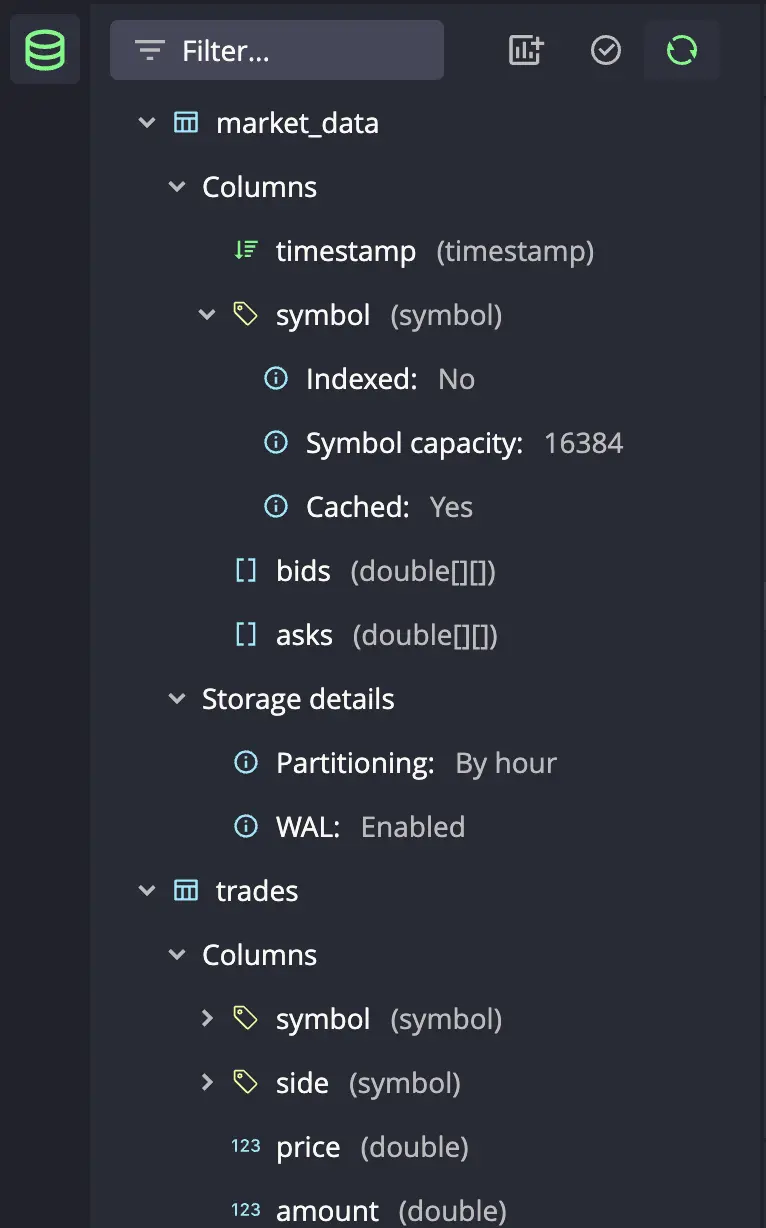
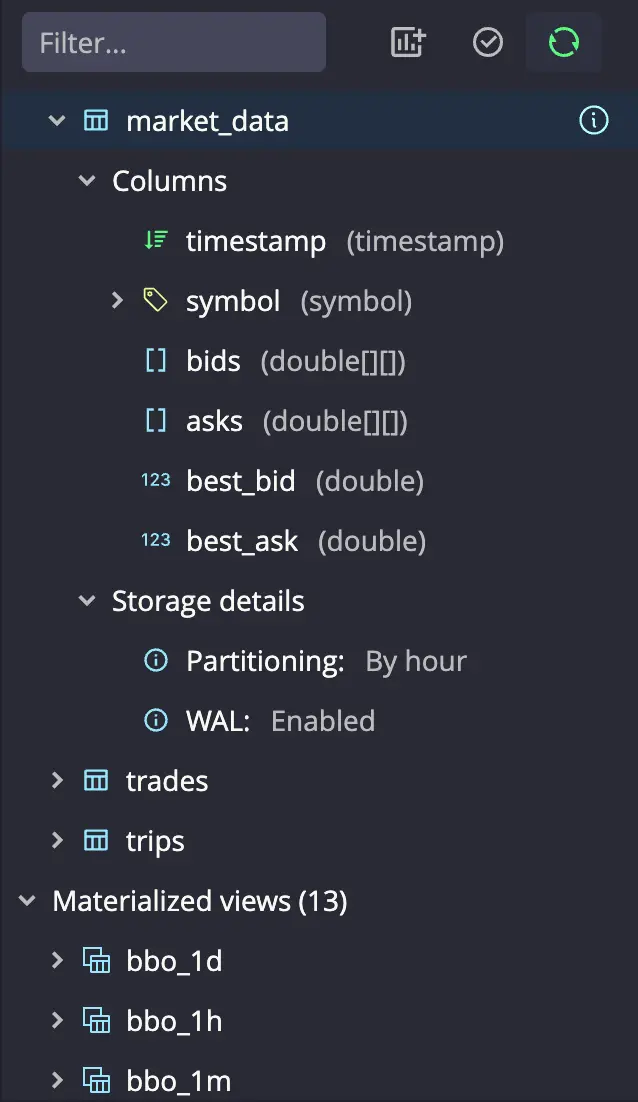
Add table details to web console docs, remove create table component, update screenshots

diff --git a/documentation/sidebars.js b/documentation/sidebars.js
@@ -35,10 +35,10 @@ module.exports = {
             "getting-started/web-console/questdb-ai",
             "getting-started/web-console/metrics-view",
             "getting-started/web-console/schema-explorer",
+            "getting-started/web-console/table-details",
             "getting-started/web-console/result-grid",
             "getting-started/web-console/query-log",
             "getting-started/web-console/import-csv",
-            "getting-started/web-console/create-table",
           ],
         },
       ],

diff --git a/documentation/getting-started/web-console/table-details.md b/documentation/getting-started/web-console/table-details.md
@@ -1,0 +1,134 @@
+---
+title: Table Details
+description: Monitor real-time ingestion metrics and health status, and view metadata for tables and materialized views in QuestDB Web Console
+---
+
+import Screenshot from "@theme/Screenshot"
+
+The **Table Details** panel provides real-time monitoring and detailed metadata for any table or materialized view. It displays health status, WAL ingestion metrics, performance alerts, and a full view of the table's DDL, columns, and storage configuration.
+
+<Screenshot
+  alt="Table Details panel in the Web Console"
+  src="images/docs/console/table-details.webp"
+  width={463}
+  height={686}
+/>
+
+## Opening Table Details
+
+You can open the Table Details panel by clicking on the information icon next to the table name, or the "View details" context menu option in the [Schema Explorer](/docs/getting-started/web-console/schema-explorer). The panel opens as a drawer on the right side of the Web Console.
+
+## Header
+
+The header displays the following information:
+
+- **Health Status Icon**: Color-coded indicator showing the overall health of the table (green for healthy, orange for warnings, red for critical issues)
+- **Table Name**: The name of the table or materialized view, with a copy button
+- **Type Badge**: Indicates whether the object is a "Table" or "Materialized View"
+
+The panel is organized into two tabs: **Monitoring** and **Details**.
+
+## Monitoring Tab
+
+The Monitoring tab provides real-time health and ingestion information. It is the default view when opening the panel.
+
+<Screenshot
+  alt="Table Details Monitoring tab"
+  src="images/docs/console/monitoring.webp"
+  width={464}
+  height={562}
+/>
+
+### Critical Error Banners
+
+When critical issues are detected, error banners appear at the top of the tab with actionable options:
+
+- **WAL Suspended**: Shown when Write-Ahead Log operations are suspended. Includes a "Resume WAL" button, an "Ask AI" button, and a link to relevant documentation.
+- **Materialized View Invalid**: Shown when a materialized view is in an invalid state. Displays the invalidation reason along with "Ask AI" and documentation links.
+
+### Row Count
+
+Displays the current row count and the last write timestamp. Hover over the timestamp to see the exact ISO timestamp with a copy option.
+
+### Materialized View Status
+
+For materialized views, an additional status section shows:
+
+- **View Status**: Valid, Refreshing, or Invalid
+- **Base Table Status**: Valid, Suspended, or Dropped, with a link to navigate to the base table's details
+
+### Ingestion
+
+For WAL-enabled tables, the Ingestion section displays real-time metrics in a two-column grid. This section is collapsible and automatically expands when warnings are detected.
+
+<Screenshot
+  alt="Table Details ingestion metrics"
+  src="images/docs/console/ingestion.webp"
+  width={461}
+  height={289}
+/>
+
+The following metrics are available:
+
+- **Pending Rows**: Rows waiting in WAL to be written to table storage, with a trend indicator (increasing, decreasing, or stable) and rate
+- **Transaction Lag**: Number of transactions committed to WAL but not yet applied to table storage, with trend indicator and rate
+- **WAL Transaction Number**: Current WAL transaction count
+- **Memory Pressure**: Current memory pressure level (None, Reduced Parallelism, or Backoff)
+- **Deduped Rows**: Total deduplicated rows since table start
+- **Transaction Size (p90)**: 90th percentile transaction size in rows
+- **Write Amplification (p50)**: Median write amplification ratio
+- **Merge Rate (p99)**: 99th percentile merge rate in rows per second
+
+A pulsing indicator appears when active ingestion is detected.
+
+:::info
+For tables without WAL enabled, the Ingestion section displays a "Write-Ahead Log is disabled" status instead of the metrics grid.
+:::
+
+### Performance Alerts
+
+When the health check system detects performance issues, alerts are displayed with:
+
+- The issue title and a warning icon
+- Current value compared to the optimal value
+- An "Ask AI" button for troubleshooting assistance
+- A link to the relevant documentation
+
+## Details Tab
+
+The Details tab provides structural information about the data source.
+
+<Screenshot
+  alt="Table Details tab"
+  src="images/docs/console/details-section.webp"
+  width={448}
+  height={816}
+/>
+
+### Base Table
+
+For materialized views, this section shows the base table name with a clickable link to navigate to its details.
+
+### DDL
+
+Displays the DDL (Data Definition Language) statement for the data source.
+
+Available actions:
+- **Explain with AI**: Opens an AI chat to explain the schema
+- **Copy**: Copies the full DDL to the clipboard
+- **Open in Editor**: Opens the DDL in a preview editor tab
+
+### Columns
+
+An expandable list showing all columns with their names and data types. Hover over a column to reveal a copy button for the column name.
+
+### Details
+
+A grid displaying key storage configuration:
+
+| Property | Description |
+| --- | --- |
+| TTL | Time-to-live value and unit, or "None" |
+| Deduplication | Whether deduplication is enabled or disabled |
+| Partitioning | Partition strategy of the data source |
+| Refresh Type | Refresh mode of a materialized view. See [materialized view refresh docs](/docs/query/sql/refresh-mat-view) for details |

diff --git a/documentation/getting-started/web-console/schema-explorer.md b/documentation/getting-started/web-console/schema-explorer.md
@@ -5,21 +5,21 @@ description: Browse and explore your database structure with the Schema Explorer
 
 import Screenshot from "@theme/Screenshot"
 
-The **Schema Explorer** is the navigation panel on the left side of the Web Console that helps you browse and understand your database structure. It provides a hierarchical view of all tables and materialized views with detailed information about their columns, data types, storage configuration, and relationships.
+The **Schema Explorer** is the navigation panel on the left side of the Web Console that helps you browse and understand your database structure. It provides a hierarchical view of all data sources with detailed information about their columns, data types, storage configuration, and relationships.
 
 You can toggle the Schema Explorer by using the database icon on the left.
 
 <Screenshot
   alt="Schema Explorer in the Web Console"
   src="images/docs/console/schema-explorer.webp"
-  height={614}
-  width={383}
+  height={551}
+  width={319}
 
 />
 
 ## Tree View
 
-The Schema Explorer displays database objects in an expandable tree structure. When you expand a table or materialized view, the following information is available:
+The Schema Explorer displays database objects in an expandable tree structure. When you expand a table, a view, or a materialized view, the following information is available:
 
 ### Folders
 
@@ -36,22 +36,24 @@ All table columns are displayed with their names and data types, each represente
 - **WAL**: Indicates whether Write-Ahead Log is enabled or disabled for the table
 
 :::tip
-Table and materialized view icons visually indicate key storage details such as partitioning and WAL status. Hover over these icons to see detailed information including partitioning strategy, ordering configuration, and WAL status, allowing you to quickly assess critical storage details without expanding the full table structure.
+Icons of the data sources visually indicate key storage details such as partitioning and WAL status. Hover over these icons to see detailed information including partitioning strategy, ordering configuration, and WAL status, allowing you to quickly assess critical storage details without expanding the full table structure.
 ::: 
 
 #### Base Tables
 For materialized views, shows the underlying source tables
 
 ### Context Menu
-Right-clicking on any table or materialized view opens a context menu with the following actions:
+Right-clicking on any data source opens a context menu with the following actions:
 <Screenshot
   alt="Table context menu for quick actions"
   src="images/docs/console/table-context-menu.webp"
-  height={614}
-  width={383}
+  height={150}
+  width={488}
 
 />
+- **View details**: Opens [Table details panel](/docs/getting-started/web-console/table-details) for viewing detailed information about the data source
 - **Copy schema**: Copies the schema of the table to the clipboard
+- **Explain schema with AI**: If [AI Assistant](/docs/getting-started/web-console/questdb-ai) is enabled, this action starts a conversation about the schema of the data source
 - **Resume WAL**: If WAL is suspended for a table, a warning icon is shown to the right of the table name. You can resume WAL from a specific transaction number by clicking on the context menu item.
   
 :::info

diff --git a/documentation/getting-started/web-console/overview.md b/documentation/getting-started/web-console/overview.md
@@ -58,6 +58,13 @@ The **Schema Explorer** is the navigation hub for exploring tables and materiali
 [Learn more about Schema Explorer →](/docs/getting-started/web-console/schema-explorer)
 
 
+### Table Details
+
+The **Table Details** panel provides real-time monitoring and detailed metadata for any table or materialized view. It includes health status indicators, WAL ingestion metrics such as pending rows and transaction lag, performance alerts, and a full view of the table's DDL, columns, and storage configuration.
+
+[Learn more about Table Details →](/docs/getting-started/web-console/table-details)
+
+
 ### Result Grid
 
 The **Result Grid** displays your query results in an interactive table format with features for data navigation, export, and visualization.
@@ -83,8 +90,9 @@ The **Import CSV** interface allows you to upload and import CSV files into Ques
 
 The **Right Sidebar** provides quick access to essential tools and information:
 - **Help**: Access quick links and contact options through a convenient help menu
+- **AI Assistant**: Open AI Assistant chat window and manage conversations
 - **QuestDB News**: Stay up-to-date with the latest QuestDB announcements and updates
-- **Create Table**: Build new tables visually using an intuitive interface. Define table structure, configure partitioning, enable WAL, and add columns with their data types—all without writing SQL code. [Learn more about Create Table →](/docs/getting-started/web-console/create-table)
+- **Table Details**: Monitor real-time ingestion metrics and health status, view metadata for any table or materialized view.
 
 
 ### Instance Naming
